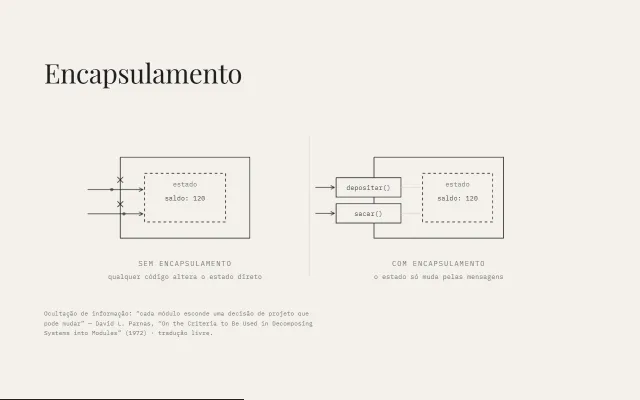
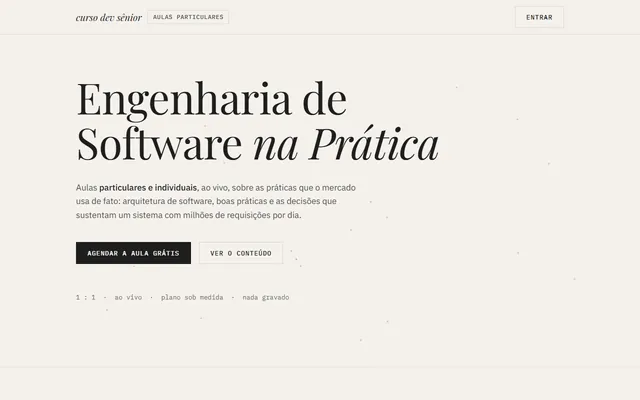
feat(site): trailer do Tiny RPG Studio e curso apontando para a Vercel
Claude-Session: https://claude.ai/code/session_01EVWp1t1hWMoEJdW2TxHGnR

diff --git a/index.html b/index.html
@@ -567,12 +567,15 @@
 
       <div class="subhead"><span>Tools &amp; experiments</span><span class="count">1</span></div>
       <div class="grid">
-        <a class="card" href="https://andredarcie.github.io/tiny-rpg-studio/" target="_blank" rel="noopener">
+        <div class="card card-stretched">
           <img class="card-shot" src="img/previews/tiny-rpg-studio.webp" alt="" width="640" height="400" loading="lazy" decoding="async">
-          <div class="card-title">Tiny RPG Studio</div>
+          <a class="card-title" href="https://andredarcie.github.io/tiny-rpg-studio/" target="_blank" rel="noopener">Tiny RPG Studio</a>
           <div class="card-desc">A web game engine with a large user community, with over 60 games created and shared.</div>
-          <span class="card-tag">Engine</span>
-        </a>
+          <div class="card-foot">
+            <span class="card-tag">Engine</span>
+            <a class="card-link" href="https://youtube.com/shorts/Fz1bWdtWqrc" target="_blank" rel="noopener" aria-label="Watch the Tiny RPG Studio trailer on YouTube"><svg width="8" height="10" viewBox="0 0 8 10" aria-hidden="true"><path d="M0 0l8 5-8 5z" fill="currentColor"/></svg>Trailer</a>
+          </div>
+        </div>
       </div>
 
       <div class="subhead"><span>Data, guides &amp; sites</span><span class="count">7</span></div>
@@ -607,7 +610,7 @@
           <div class="card-desc">Skills for AI agents that apply software engineering best practices.</div>
           <span class="card-tag">Site</span>
         </a>
-        <a class="card" href="curso/">
+        <a class="card" href="https://curso-dev-senior.vercel.app/" target="_blank" rel="noopener">
           <img class="card-shot" src="img/previews/curso.webp" alt="" width="640" height="400" loading="lazy" decoding="async">
           <div class="card-title">Curso Dev do André</div>
           <div class="card-desc">Software engineering course in slide decks: OOP, SOLID, architecture, distributed systems.</div>
